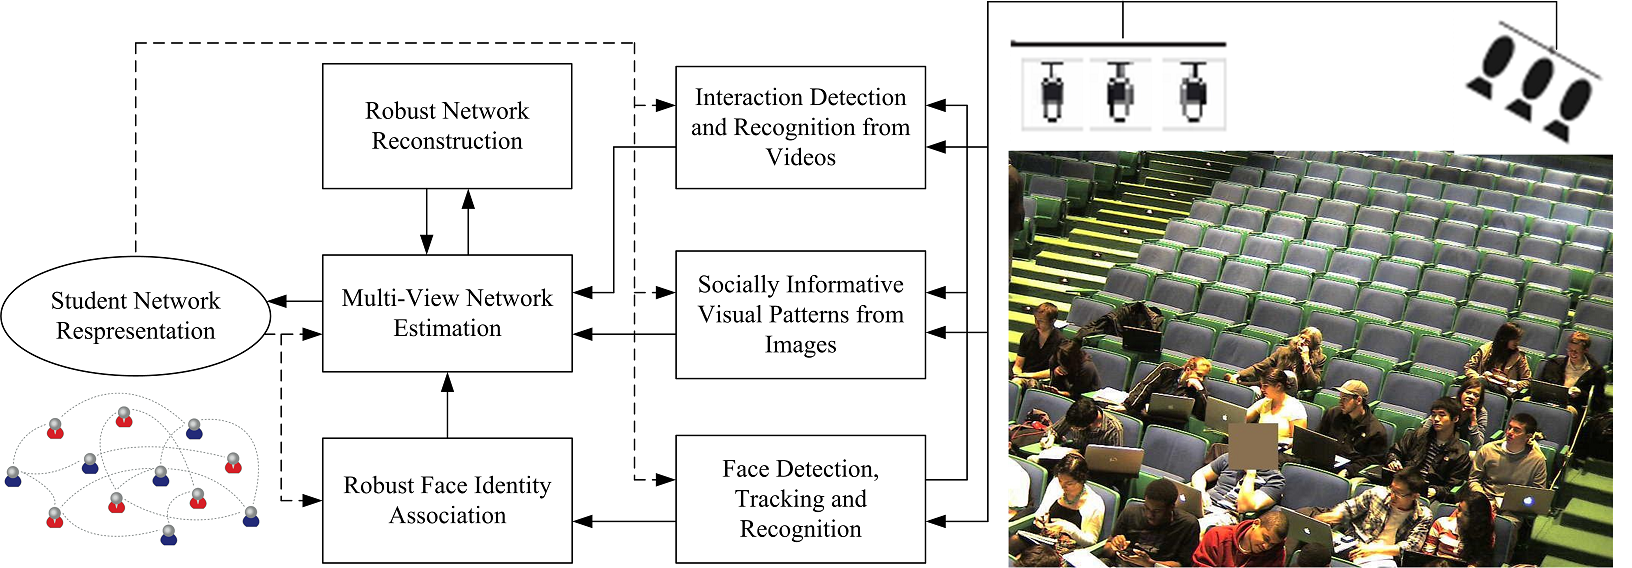
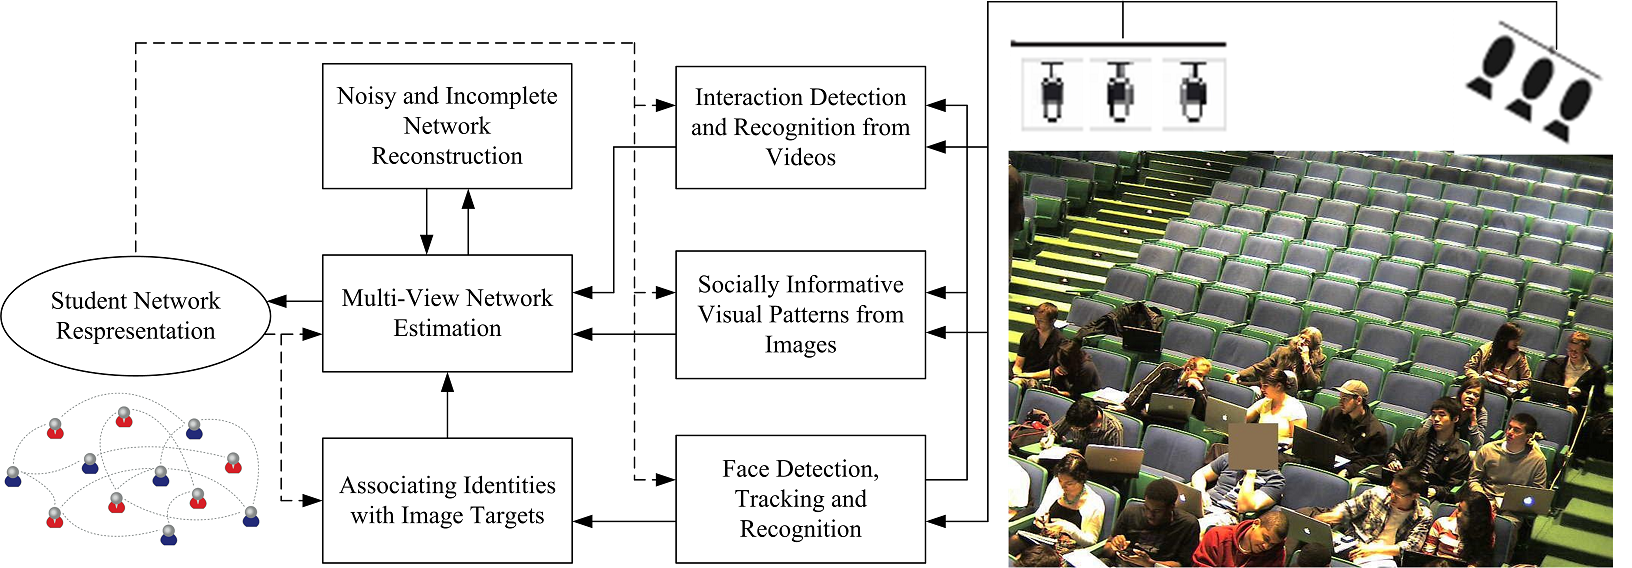
all in place

Changed region(s): [[0.1875, 0.1496, 0.3438, 0.2993], [0.1875, 0.838, 0.3438, 0.868], [0.2188, 0.8979, 0.3438, 0.9278]]

diff --git a/summary.tex b/summary.tex
@@ -3,14 +3,25 @@
 {\centering \vspace*{-0.3in} {\bf \Large{\mytitle}\\}}
 \vspace*{0.05in}
 
-We propose a framework to \emph{see} a social network - one that uses ubiquitous visual information and cutting-edge computer vision technologies as a new `sensor' by which we aim to reconstructing social relationships and attributes among individuals in various social communities. Contemporary research on social networks, undoubtedly, has been revealing us rich semantics by exploiting diverse `conventional social sensors' from textual/voice communications to online message sharing, but it has almost completely ignored visual media from abundant online photos to video volumes harvested by surveillance camera networks. Camera, as a new `community sensor', is much less intrusive than conventional social sensors, but exposes us the `real stories' about the community members from aside and remotely: Many of these stories may be too subtle for conventional approaches to grasp but visually sensible. Cameras, equipped with ever-increasing computer vision capabilities, produce vivid data in a quantity thousand times of what conventional sensors do, but these data has largely remained unexplored for social networks. It is now our mission to introduce vision to social networks in this proposed research agenda.
+We propose a framework to \emph{see} a social network - one that exploits images and videos and employs computer vision as a new `sensor' to recover social relationships and attributes among individuals in social communities. The mission of computer vision is to extract from visual data useful information about the world, and we now have functioning vision systems for many types of information. Yet, there are aspects of the world to which computer vision systems, relative to their human counterparts, remain quite blind. Prominent among these are the \emph{social interactions} and \emph{social relationships} between people. This information is critical for humans as they navigate the world and make decisions.
 
-In companion, we propose to understand images and videos by incorporating the contextual knowledge provided by the online social connections where the images and videos are embedded, as well as to distill from images and videos new social semantics previously only under the attention of conventional sociology. This effort builds upon, but will go much beyond the preliminary attempt on recognizing faces and identities under social contexts: Face recognition only tells about \emph{who} are in the visual scene, but we argue that benefits from the socialized nature of media nowadays are not limited to the task of `who'. Knowing more about the social connections among the visual documents helps us to better understand \emph{what} the individuals are doing therein and \emph{where} they geographically are, and even enables us to predict more precisely \emph{whether} a particular event is to happen next.
+Contemporary research on social networks, meanwhile, has been revealing us rich semantics by exploiting diverse `conventional social sensors' from textual/voice communications to online message sharing, but it has almost completely ignored visual media from abundant online photos to video volumes harvested by surveillance camera networks. Camera, as a new `community sensor', is much less intrusive than conventional social sensors, but exposes us the `real stories' about the community members from aside and remotely. Facial expressions, gestures, and body poses are critical signals for understanding the interactions and relationships between people, and the only way to get these are from images and videos. Also, it is not just important to understand the type of interaction, but also the context of the scene in which it occurs.
 
-In fact, both the visual sensing of a social network and the socially assisted understanding of visual materials can benefit from cross-pollination: Visually sensed social ties provide more specific contextual evidences about who are more likely to interact in a new visual scene and what activities they are more likely to be engaged in, while watching the visual co-occurrences and co-activities of two community members may reflect more accurate connections between them that are not easily available from other resources. By socially-aware visual analytics, we mean a comprehensive theoretical and practical infrastructure that we expect to develop during the award period, with the two complementing modules of the visual sensing of a network and the socially assisted visual understanding well integrated.
+We propose to develop foundations for computer vision systems that are `socially aware'. These systems will extract, from images and videos of human gatherings, useful information about the types of social interactions that occur within these gatherings. And by enumerating the different types of interactions that occur over time in large image and video collections, they will extract useful information about the underlying \emph{social network}---the set of social relationships that exist among the observed individuals, groups, and communities. 
 
-\boldstart{Intellectual Merit}. We propose a paradigm for socially-aware visual analytics, which systematically explores the interactions between visual information and social communities, yielding a new foundation for machine discovery of sociological knowledge and the potential for new perspectives and applications in visual understanding and computer vision. The paradigm includes new models and representations for networks arising from exploiting visual concepts in images and videos, and includes computational mechanisms to leverage socialized metadata for the new tasks in image and video analysis. The paradigm will, in particular, account for realistic situations in network sensing, such as multi-type overlapping communities and partial noisy observations, which has been largely overlooked by contemporary research, and all novel functionalities will build on mature elements in computer vision, such as face/human detection, recognition, and tracking, scene analysis, and event/activity interpretation, and will be deployed in the form of software and hardware.
+\boldstart{Intellectual Merit}. The paradigm of our proposed social visual analytics will systematically explores the interactions between visual information and social network, yielding a new foundation for machine discovery of sociological knowledge. The paradigm includes new models and representations for discovering socially-informative visual patterns, especially social interactions, and new computational mechanisms for recovering social networks by exploiting heterogeneous visual cues. The paradigm will in particular account for new challenges arising from both images and societies, and all novel functionalities will build on mature elements in computer vision, such as face/human detection, recognition, tracking, scene analysis, and event/activity interpretation, and will be deployed in the form of software and hardware.
 
-\boldstart{Broader Impacts}. The primary application domain of the proposed research is online and networked visual media about humans, while it will be also applicable to broader visual materials involving other agents, such as historical image archives, scientific image collections, biological recordings, and so on. Socialized behaviors are prevalent in social creatures, and our research will shed lights on new approaches to automatic browse, index, and parse them. New insights will be drawn toward diverse disciplines spanning sociology, pedagogy, and statistics, which are still in their infancy in introducing automated approaches exploiting visual information. Besides the tremendous potentials of industrial interests and product implementation that do not need elaboration, the proposed interdisciplinary research will also prompt revolutions in educational programs providing next-generation students with more comprehensive knowledge and broader mastery of skills.
+\boldstart{Broader Impacts}. The proposed program will seize on this opportunity for the creation of a framework for social visual analytics. We will engage in its creation students, the computer vision research community, and the broader public, toward a future in which machines can better understand and interact with environments. The proposed program will play an important role in education. The fundamental results will be incorporated into the curricula of an existing computer vision class. Undergraduates will be given opportunities for hands-on research experience including research internships that may be funded by future NSF REU supplements. Funding will be used to support two PhD, who will be an integral part of both research and educational endeavors. Finally, our results will be broadly disseminated by publications, lectures, and online sharing of source code so that they can be adopted and extended, and our outcomes will be shared through workshops held in conjunction with the major vision conferences. 
 
 \boldstart{Keywords:} Computer vision; social networks; machine learning
+
+
+%We propose a framework to \emph{see} a social network - one that exploits images and videos and employs computer vision as a new `sensor' by which we aim to recover social relationships and attributes among individuals in our social communities. Contemporary research on social networks has been revealing us rich semantics by exploiting diverse `conventional social sensors' from textual/voice communications to online message sharing, but it has almost completely ignored visual media from abundant online photos to video volumes harvested by surveillance camera networks. Camera, as a new `community sensor', is much less intrusive than conventional social sensors, but exposes us the `real stories' about the community members from aside and remotely: Many of these stories may be too subtle for conventional approaches to grasp but visually sensible. Cameras, equipped with ever-increasing computer vision capabilities, produce socially-informaive data in a quantity thousand times of what conventional sensors do, but these data has largely remained unexplored for social networks. It is now our mission to introduce vision to social networks in this proposed research agenda.
+%
+%In companion, we propose to understand images and videos by incorporating the contextual knowledge provided by the online social connections where the images and videos are embedded, as well as to distill from images and videos new social semantics previously only under the attention of conventional sociology. This effort builds upon, but will go much beyond the preliminary attempt on recognizing faces and identities under social contexts: Face recognition only tells about \emph{who} are in the visual scene, but we argue that benefits from the socialized nature of media nowadays are not limited to the task of `who'. Knowing more about the social connections among the visual documents helps us to better understand \emph{what} the individuals are doing therein and \emph{where} they geographically are, and even enables us to predict more precisely \emph{whether} a particular event is to happen next.
+%
+%In fact, both the visual sensing of a social network and the socially assisted understanding of visual materials can benefit from cross-pollination: Visually sensed social ties provide more specific contextual evidences about who are more likely to interact in a new visual scene and what activities they are more likely to be engaged in, while watching the visual co-occurrences and co-activities of two community members may reflect more accurate connections between them that are not easily available from other resources. By socially-aware visual analytics, we mean a comprehensive theoretical and practical infrastructure that we expect to develop during the award period, with the two complementing modules of the visual sensing of a network and the socially assisted visual understanding well integrated.
+%
+%\boldstart{Intellectual Merit}. We propose a paradigm for socially-aware visual analytics, which systematically explores the interactions between visual information and social communities, yielding a new foundation for machine discovery of sociological knowledge and the potential for new perspectives and applications in visual understanding and computer vision. The paradigm includes new models and representations for networks arising from exploiting visual concepts in images and videos, and includes computational mechanisms to leverage socialized metadata for the new tasks in image and video analysis. The paradigm will, in particular, account for realistic situations in network sensing, such as multi-type overlapping communities and partial noisy observations, which has been largely overlooked by contemporary research, and all novel functionalities will build on mature elements in computer vision, such as face/human detection, recognition, and tracking, scene analysis, and event/activity interpretation, and will be deployed in the form of software and hardware.
+%
+%\boldstart{Broader Impacts}. The primary application domain of the proposed research is online and networked visual media about humans, while it will be also applicable to broader visual materials involving other agents, such as historical image archives, scientific image collections, biological recordings, and so on. Socialized behaviors are prevalent in social creatures, and our research will shed lights on new approaches to automatic browse, index, and parse them. New insights will be drawn toward diverse disciplines spanning sociology, pedagogy, and statistics, which are still in their infancy in introducing automated approaches exploiting visual information. Besides the tremendous potentials of industrial interests and product implementation that do not need elaboration, the proposed interdisciplinary research will also prompt revolutions in educational programs providing next-generation students with more comprehensive knowledge and broader mastery of skills.

diff --git a/problem1.tex b/problem1.tex
@@ -10,24 +10,29 @@ Given a few or many images or videos capturing humans, their societies, and thei
 
 \begin{figure}[t!]
 \begin{center}
-\includegraphics[width=\columnwidth]{intro}
+\includegraphics[width=\columnwidth]{image_feature}
 \end{center}
 \vspace{-0.25in} \caption{\captionsize 
-(a-1) Original picture with detected faces; (a-2) relative positions of the detections; (a-3) Facial expressions; (a-4) Mutual Gazes; (a-5) Mutual poses; (a-6) scene recognition. (b-1) Independently recognizing the two faces: The right face is hard to distinguish between two possible people; (b-2) Recognizing faces using social relationship inferred from (a-1) through (a-6): The right face is now more likely to be associated with one person than the other. \label{fig:prob1}\afterfigspace}
+Socially-informative visual cues from still images: (a-1) Original picture with detected faces; (a-2) relative positions of the detections; (a-3) Facial expressions; (a-4) Mutual Gazes; (a-5) Mutual poses; (a-6) scene recognition. \label{fig:prob1}\afterfigspace}
 \end{figure}
 
-The example, as well as similar findings \cite{Gallagher,Wang2010,Murillo2012}, is inspiring, in that it convinces us that we have been equipped with sufficient computer vision capabilities for still images: These functionalities provide us a set of \emph{socially informative visual patterns}, and a smart selection and leveraging of them reveals new `words' that has never been seen by computer vision. High-level social contexts sensed from images through these socially informative visual patterns may conversely have immeasurable potentials in pushing traditionally hard problems forward, as has been argued and proved \cite{Stone2008,Stone2010}, for example in the task of face recognition from online imageries: Consider that in recognizing the two faces detected in Fig. \ref{fig:intro} (a-1) the right face is hard to distinguish between `Susan' and `Helen' (see (b-1)). However, the inferred `friends' relationship suggests that the individual should belong to the left person's list of friends (see (b-2)), which includes only `Helen' but not `Susan'.
+%(b-1) Independently recognizing the two faces: The right face is hard to distinguish between two possible people; (b-2) Recognizing faces using social relationship inferred from (a-1) through (a-6): The right face is now more likely to be associated with one person than the other.
 
+The example, as well as similar findings \cite{Gallagher,Wang2010, Murillo2012}, is inspiring, in that it convinces us that we have been equipped with sufficient computer vision capabilities for still images: These functionalities provide us a set of \emph{socially informative visual patterns}, and a smart selection and leveraging of them reveals new `words' that has never been seen by computer vision. High-level social contexts sensed from images through these socially informative visual patterns may conversely have immeasurable potentials in pushing traditionally hard problems forward, as has been argued and proved \cite{Stone2008,Stone2010}, for example in the task of face recognition from online imageries using social network contexts.
+
+%Consider that in recognizing the two faces detected in Fig. \ref{fig:prob1} (a-1) the right face is hard to distinguish between `Susan' and `Helen' (see (b-1)). However, the inferred `friends' relationship suggests that the individual should belong to the left person's list of friends (see (b-2)), which includes only `Helen' but not `Susan'.
+
+
+
+Obviously, socially informative visual patterns not only exist in still images, but are also largely available from videos, where human behaviors are observed and recorded. While we may straightforwardly compute and represent the co-occurrences of multiple dynamic expressions, gazes, and poses, it however may not be necessarily true that these dynamic patterns are socially informative. To illustrate this, let us look at  a short video of co-occurrence of two-person actions, such as 'kick', 'punch', etc. (\cite{UTdata}, Fig. \ref{fig:socialbehavior}(a)),  where dynamics of the two people's poses and articulations can be extracted but they have limited extra implications beyond what we can tell from images. Similarly, the socially non-informative behavior patterns also include those group-wise or collective activities of a crowd, within which there are no explicit interactions, such as 'group-walking', 'queueing', etc. (\cite{Choi:context,Choi:recogtrack}, Fig. \ref{fig:socialbehavior}(b)).  Our common sense, on the one hand, implies that socially informative video patterns are more of gestural and conversational interactions, attention-response, as well as turn-taking meetings  (Fig \ref{fig:socialbehavior}(c)(d)). On the other hand, sociology has provided well-defined socialization concepts, in terms of behavior categories, which has been proved in qualitative or quantitative sociological studies to be socially salient and meaningful, whose discovery however has not yet been automated by computer vision. Examples are in Fig. \ref{fig:socialbehavior} (e), which shows diagrams for such socially informative interaction categories, namely `f-formations', in three-way interactions that have been under the investigation of sociology and just received initial attention by computer vision \cite{Cristani:fformation}.
 
 \begin{figure}[t!]
 \begin{center}
 \includegraphics[width=\columnwidth]{socialbehavior}
 \end{center}
 \vspace{-0.25in} \caption{\captionsize 
-(a): Socially non-informative co-occurrence of articulations\cite{UTdata}; (b): Socially non-informative collective crowd activities\cite{Choi:context,Choi:recogtrack}; (c): Socially informative salient interactions; (d) Socially informative salient group interactions in the nature; (e) Socially meaningful three-way activity categories defined as `f-formations' by sociology\cite{Kendon1990}.\label{fig:socialbehavior}\afterfigspace}
+(a): Socially non-informative co-occurrence of articulations\cite{UTdata}; (b): Socially non-informative collective crowd activities\cite{Choi:context,Choi:recogtrack}; (c)(d): Socially informative salient interactions; (e) Socially meaningful three-way activity categories defined as `f-formations' by sociology\cite{Kendon1990}.\label{fig:socialbehavior}\afterfigspace}
 \end{figure}
-
-Obviously, socially informative visual patterns not only exist in still images, but are also largely available from videos, where human behaviors are observed and recorded. While we may straightforwardly compute and represent the co-occurrences of multiple dynamic expressions, gazes, and poses, it however may not be necessarily true that these dynamic patterns are socially informative. To illustrate this, let us look at  a short video of co-occurrence of two-person actions, such as 'kick', 'punch', etc. (\cite{UTdata}, Fig. \ref{fig:socialbehavior}(a)),  where dynamics of the two people's poses and articulations can be extracted but they have limited extra implications beyond what we can tell from images. Similarly, the socially non-informative behavior patterns also include those group-wise or collective activities of a crowd, within which there are no explicit interactions, such as 'group-walking', 'queueing', etc. (\cite{Choi:context,Choi:recogtrack}, Fig. \ref{fig:socialbehavior}(b)).  Our common sense, on the one hand, implies that socially informative video patterns are more of gestural and conversational interactions, attention-response, as well as turn-taking meetings  (Fig \ref{fig:socialbehavior}(c)). On the other hand, sociology has provided well-defined socialization concepts, in terms of behavior categories, which has been proved in qualitative or quantitative sociological studies to be socially salient and meaningful, whose discovery however has not yet been automated by computer vision. Examples are in Fig. \ref{fig:socialbehavior} (e), which shows diagrams for such socially informative interaction categories, namely `f-formations', in three-way interactions that have been under the investigation of sociology.  
 
 
 We seek to develop new approaches for detecting, localizing, and recognizing these socially informative visual patterns, i.e., interactions, from videos, in complementary to those companion efforts for still images. Through this effort, we foresee a richer set of heterogenous socially informative visual cues from videos in addition to those from images, so as to enable high-level reasoning as to be introduced in Section \ref{sec:vis2net}. We propose a paradigm as to be detailed in Section \ref{subsec:activity}, which is different from the existing work in three aspects. First, our approach is targeted to interactions that are defined and categories by dictionaries from sociology, but also generic to accommodate arbitrarily specified categories of interest and categories learned from data (Section \ref{sec:actlearn}), as well as interactions in social populations in the nature (Fig. \ref{fig:socialbehavior}(d)). Second, we builds upon realistic videos `in the wild', where the social interactions occur in unconstrained environment in the format of long-term surveillance videos of public areas, with irrelevant human beings co-existing with socially engaged actors as well as scene/background clutter. Our approach will be one that can effectively and efficiently localize and retrieve salient social interactions in space and time from these large volumes of cluttered image sequences. Third, realistic visual materials such as surveillance videos and web videos are frequently in low and varying frame-rate, in low resolution, blurry, as well as in adverse view-points. Our effort will be handling all these realistic conditions and providing robust and practical tools that process more than those simulated, high-quality, manually pre-processed data \cite{UTdata,Choi:context,Choi:recogtrack}.

diff --git a/problem5.tex b/problem5.tex
@@ -11,7 +11,7 @@ The prototype hardware and software infrastructure for analyzing socialized huma
 
 The ultimate goal of our proposed research is a comprehensive system that seamlessly integrates a bottom-up hierarchy of multiple modules for sensing social networks from visual information. While an universally applicable framework or prototype system to accomplish this purpose is a long-term objective that may require more than affordable for the moment, at a reasonably constrained visual scene and a fixed group of social agents of small to medium scale is completely feasible and is on our agenda. We plan, for example, at a later stage of the award period, to move toward such a computer vision system that can reveal the heterogeneous and possibly time-varying social networks of all students that enroll in a semester-long course offered at Harvard University. 
 
-As the initial attempt toward this goal to analyze socialized human behaviors in an indoor environment for social network estimation, we have built up a prototype hardware and software infrastructure at Harvard University. As shown in Fig. \ref{fig:prototype}, the hardware part of the prototype system mainly consists of a networked audio-visual recording system for large-scale recording of student interactions in a Harvard College lecture hall. The system records audio and video from approximately one hundred students during each lecture in conjunction with the audience responses through an online teaching-learning application. The video system uses six IP cameras that together provide resolution that is high enough to achieve face-based identity recognition of each student in the audience. The audio system is an innovative design consisting 48 omnidirectional boundary microphones mounted inconspicuously among the seats, and outputting sound from each microphone recording to a single user-friendly mp3 audio file.To automatically analyze the videos, we have developed a robust computational suite of computer vision tools. This software has consisted of several fundamental modules that detect, track, and recognize faces,  distill socially informative descriptions from raw images, and detect and recognize salient social interactions of interest, and has yielded the data used for our preliminary evaluation introduction in Section \ref{sec:activity}. The software suits, meanwhile, is expected to include other functionalities proposed in the previous sections by the end of the award period.
+As the initial attempt toward this goal to analyze socialized human behaviors in an indoor environment for social network estimation, we have built up a prototype hardware and software infrastructure at Harvard University. As shown in Fig. \ref{fig:prototype}, the hardware part of the prototype system mainly consists of a networked audio-visual recording system for large-scale recording of student interactions in a Harvard College lecture hall. The system records audio and video from approximately one hundred students during each lecture in conjunction with the audience responses through an online teaching-learning application. The video system uses six IP cameras that together provide resolution that is high enough to achieve face-based identity recognition of each student in the audience. The audio system is an innovative design consisting 48 omnidirectional boundary microphones mounted inconspicuously among the seats, and outputting sound from each microphone recording to a single user-friendly mp3 audio file.To automatically analyze the videos, we have developed a robust computational suite of computer vision tools. This software has consisted of several fundamental modules that detect, track, and recognize faces,  distill socially informative descriptions from raw images, and detect and recognize salient social interactions of interest, and has yielded the data that are fundamentally different from benchmark datasets \cite{UTdata,Choi:context,Choi:recogtrack} and are used for our preliminary evaluation introduction in Section \ref{sec:activity}. The software suits, meanwhile, is expected to include other functionalities proposed in the previous sections by the end of the award period.
 
 As illustrated by the diagram in Fig. \ref{fig:prototype}, and mentioned in the previous sections, we will employ the classroom observation system as our interface to harvest a volume of video sequences recording the indoor behaviors of the same class of students throughout the semester. The course that they enroll in uses interactive instruction by which they students are self-seated and engage in ad-hocly grouped discussions. We also maintain a teaching database where we have textual metadata regarding the students' profile data, status, learning performance, etc., as initial and partial social contexts among the students. This teaching database only only provides extra non-visual sources for estimating the student social network, but also can be used to provide the `ground-truth' networks to facilitate the research proposed in Section \ref{sec:vis2net}. Eventually, through the modules for face detection, tracking, recognition, and identify association (Section \ref{sec:assoc}), we link the members/nodes of the network to the human beings in each scene. Meanwhile, we detect socially meaningful interactions (Section \ref{subsec:activity}), co-occurrences, as well as compute other low-level visual cues for the purpose of estimating a `noisy' version of a multi-view network representation (Section \ref{sec:vis2net}), with the unobservable links between pairs in different views robustly reconstructed(Section \ref{sec:reconstruct}). The `hallucinated' social network from the videos in this way then provides the visually-sensed `honest' update for the network prior and is consolidated with the `textual' network as a comprehensive and more accurate characterization of this community. The feedback channel may infuse the updated social contexts and concepts to the face recognizer and the interaction detector. We expect such a close-loop socially-aware visual analytical framework to learn and self-build themselves in an evolving and unsupervised manner and to enable our new look at the images and videos in this socially networked era.
 

diff --git a/relatedwork.tex b/relatedwork.tex
@@ -9,7 +9,7 @@ The recognized faces exhibit more information than those regarding identities an
 
 \boldstart{Human Behavior Recognition}. In addition to facial behaviors, social clues are abundantly conveyed by body language of humans. Human behaviors are not only in the form of moderate body motion - gesture \cite{Mitra:gesture}, but also in the form of articulations - full-body action \cite{Ryoo:action,Poppe}. The description of these human behaviors builds upon low-level spatio-temporal descriptors \cite{Dalal:HOG,Dollar:STIP,Laptev:STIP,Brox:flow}, and is hierarchically organized into high-level grammar structure \cite{Niebles2007,Niebles2006} for recognition.  Related tasks also include detecting motion from clutter \cite{Li2010}, comparing two behaviors \cite{LiPAMI 2012}, as well as adapting behavior representations between different modalities \cite{LiZickler2012,Li2011}, which are all among co-PI Li's expertises.
 
-Studies on social behavior involving more than one individual had not begun until efforts were made in videos of small-scale indoor meeting \cite{GaticaPerez,McCowan:meeting}, where the functionalities of tracking \cite{Smith:track} and pose estimation \cite{Ba:meeting} are integrated in dynamic hidden Markov models (HMM) \cite{Zhang:meeting}. More efforts emerged in the past few years, spanning pairwise interactive activities \cite{UTdata}, as well as group-wise, or collective activities \cite{Choi:context,Choi:recogtrack,Amer:group,Lan:Group}, as well as co-PI Li's recent studies on interactions in sport games \cite{LiIJCV2012}.  Despite of an increasing interest in the group-wise activities, a gap between the existing work and our proposed research is obvious: Instead of treating the group of humans as a unified and `intact' target, or sample for categorization, we aim to fill in the blank area of overlaying the group of individuals with the social network among them, as to be detailed in Sect.~\ref{sec:proposed-research}.
+Studies on social behavior involving more than one individual had not begun until efforts were made in videos of small-scale indoor meeting \cite{GaticaPerez,McCowan:meeting}, where the functionalities of tracking \cite{Smith:track} and pose estimation \cite{Ba:meeting} are integrated in dynamic hidden Markov models (HMM) \cite{Zhang:meeting}. More efforts emerged in the past few years, spanning pairwise co-occuring activities \cite{UTdata}, group-wise, or collective activities \cite{Choi:context,Choi:recogtrack,Amer:group,Lan:Group}, interactions readily defined by sociology such as `f-formations' \cite{Cristani:fformation}, as well as co-PI Li's recent studies on interactions in sport games \cite{LiIJCV2012}.  Despite of an increasing interest in the group-wise activities, a gap between the existing work and our proposed research is obvious: Instead of treating the group of humans as a unified and `intact' target, or sample for categorization, we aim to fill in the blank area of overlaying the group of individuals with the social network among them, as to be detailed in Sect.~\ref{sec:proposed-research}.
 
 
 \boldstart{Qualitative and Quantitative Sociology}.  Despite of the lack of visual sensor, social network has been among the most persistent research interests for years. Sociology, where the modern social network research is rooted, can be traced back to decades ago when investigations are performed on human beings' elementary social properties \cite{Darwin,Thomkins,Goffman,Kendon1990,Ekman,Hoyle,Tannen}. Interactions and relations among socialized individuals have been extensively under the study of sociology in either a qualitative or a quantitative manner \cite{Goodwin2000,Goldin,Goodwin2007,Kendon2010}, while the arrival of the era of contemporary communication and internet brings the human society into a real technically interconnected community, so that analytical and statistical approaches can be widely applied to new socializing modalities, such as emails \cite{Eckmann} and mobile phones calls \cite{Onnela,Eagle}. Rich and heterogeneously structured communities can be abstracted from various domains, including production and consumption \cite{Watts}, transportation and travel \cite{Gonzalez},  as well as politics \cite{Iacus}. All together has shaped the interdisciplinary study on the networked life of human beings, namely `computational social science', into an infancy \cite{Lazer2009}. As has been discussed, the perspectives and problems in the computational social science, will infuse the computer vision with nutritional ingredients, and eventually benefit from the outcome of such research.

diff --git a/introduction.tex b/introduction.tex
@@ -13,7 +13,8 @@ The past decade has produced stunning advances in computer vision. Real-time fac
 
 If the purpose of computer vision is to extract from image data useful information about the world, it is clear that we now have useful, functioning vision systems for certain types of information. Yet, there are aspects of the world to which computer vision systems, relative to their human counterparts, remain quite blind. Prominent among these are the \emph{social interactions} and \emph{social relationships} between people. This is information is critical for humans as they navigate the world, making decisions about which table to join at a banquet; which schoolmates to invite to a dinner party; which colleagues to approach to enact change; or whether or not to intervene in a questionable interaction between strangers.
 
-We propose to develop foundations for computer vision systems that are socially aware. These systems will extract, from images and videos of human gatherings, useful information about the types of social interactions that occur within these gatherings. And by enumerating the different types of interactions that occur over time in large image and video collections, they will extract useful information about the underlying \emph{social network}---the set of social relationships that exist among the observed individuals, groups, and communities.
+
+We propose to develop foundations for computer vision systems that are socially aware. These systems will extract, from images and videos of human gatherings, useful information about the types of social interactions that occur within these gatherings. And by enumerating the different types of interactions that occur over time in large image and video collections, they will extract useful information about the underlying \emph{social network}---the set of social relationships that exist among the observed individuals, groups, and communities. In other words, we seek to use computer vision systems as a new `sensor' from which we recover the underlying social network (Fig. \ref{fig:intro}).
 
 Why is vision an important source of social network information? Social network information can come from various sources, but vision is an important one. Facial expressions, gestures, and body poses are critical signals for understanding the interactions and relationships between people, and the only way to get these are from images and videos. Also, it is not just important to understand the type of interaction, but also the context of the scene in which it occurs.
 
@@ -24,6 +25,14 @@ Our project has three main parts:
 2. Inferring social network information from detected interactions. We will design mechanisms by which we distill ties or affinities between social members from multiple heterogeneous visual cues, and in particular accounting for the multi-view effect in a practical social network. To achieve robustness, our research will especially focus on noise-resilient methods for mapping image targets to the identities of the members, as well as novel algorithms to the case of incomplete and noisy outputs from the social network estimator due to various types of imperfection incurred from missed detections; mis-classified interactions, and a large fraction of missing observations.
 
 3. Data collections and challenge problems. We will collect datasets to evaluate our methods and design challenge problems to engage our colleagues in this research agenda. To do this, we will address the challenges of enabling reproducible research while preserving privacy.
+
+\begin{figure}[t!]
+\begin{center}
+\includegraphics[width=\columnwidth]{intro}
+\end{center}
+\vspace{-0.25in} \caption{\captionsize 
+Social visual analytics: A computer vision approach to `sense' a social network. \label{fig:intro}\afterfigspace}
+\end{figure}
 
 This lays the foundation for socially-aware computer vision systems. These systems will transform security, anti-terrorism, autonomous visual analytics, augmented reality, human computer interaction, human resource planning, operations research, game theory and e-commerce, and identify recognition. 
 

diff --git a/broaderimpact.tex b/broaderimpact.tex
@@ -7,20 +7,6 @@ A computational framework that enables social understanding from visual data is 
 
 The proposed  program will seize on this opportunity by concentrating our team's resources on the creation of a  framework for social visual analytics.  We will engage in its creation undergraduate and graduate students, the computer vision research community, and the broader public. These are critical steps toward a future in which machines can match or exceed the human ability to understand and interact with their environments; and they will usher in radical changes to security, personal robotics, augmented reality, human-computer interfaces, security, and video summarization, to name a few.
 
-The proposed research program will play an important role in education at
-both the undergraduate and graduate levels. The fundamental results of this
-research will be incorporated into the curricula of an existing computer vision class, enhancing senior
-undergraduate and graduate student education at the participating
-institution. Undergraduates at the junior and senior levels will be given
-opportunities for hands-on research experience, including summer research
-internships that may be funded by future NSF REU supplements. Finally, funding
-will be used to support two PhD, and these
-students will be an integral part of both research and educational endeavors in
-this project. They will participate in all stages, including the design of
-equipment and algorithms, and presentation of results at major conferences.
+The proposed research program will play an important role in education at both the undergraduate and graduate levels. The fundamental results of this research will be incorporated into the curricula of an existing computer vision class, enhancing senior undergraduate and graduate student education at the participating institution. Undergraduates at the junior and senior levels will be given opportunities for hands-on research experience, including summer research internships that may be funded by future NSF REU supplements. Finally, funding will be used to support two PhD, and these students will be an integral part of both research and educational endeavors in this project. They will participate in all stages, including the design of equipment and algorithms, and presentation of results at major conferences.
 
-Our results will be broadly disseminated in three ways. First, they
-will be distributed by publications in refereed conferences and
-journals and by lectures at other institutions.  Second, datasets and source
-code will be posted online so that they can be
-easily adopted and extended (see attached Data Management Plan). Third, they will be shared through  challenge problem workshops on social visual analytics, held in conjunction with the major  vision conferences, with the small amount of required funding provided by sponsorship agreements. The research team has an established track record in this type of outreach, with PI Zickler having organized tutorials in  vision and  graphics (ICCV 2007, SIGGRAPH 2008) as well as a workshops on computer vision (CRICV 2009, CRICV 2010, CPCV 2011)
+Our results will be broadly disseminated in three ways. First, they will be distributed by publications in refereed conferences and journals and by lectures at other institutions.  Second, datasets and source code will be posted online so that they can be easily adopted and extended (see attached Data Management Plan). Third, they will be shared through  challenge problem workshops on social visual analytics, held in conjunction with the major  vision conferences, with the small amount of required funding provided by sponsorship agreements. The research team has an established track record in this type of outreach, with PI Zickler having organized tutorials in  vision and  graphics (ICCV 2007, SIGGRAPH 2008) as well as a workshops on computer vision (CRICV 2009, CRICV 2010, CPCV 2011)

diff --git a/problem4.tex b/problem4.tex
@@ -1,4 +1,4 @@
-\subsubsection{Robust Reconstruction of Incomplete Networks}
+\subsubsection{Noisy and incomplete network reconstruction}
 \label{sec:reconstruct}
 
 A second realistic condition, in particular relevant for our visual sensing paradigm, is that the social networks are usually noisy and partially observed, meaning that not all links/affinities from all views are accurate and `visible'. Some links, i.e., edges in the graph cannot be evaluated with a weight, for example, because of the incapability of the vision function on a particular image, resulting in incomplete graphs.
@@ -16,7 +16,7 @@ The answer is YES. We have proved the following theorem, which implies that arbi
 
 The above theorem provides theoretical guarantee that each member (node) can be uniquely identified with a point in a Euclidean space, because now the Euclidean embedded nodes $\vx_i$'s and the generic social network representation $G$ are naturally related as
 \begin{equation}\label{eq:embed}
-d^{(v)}(\vx_i, \vx_j, \theta^{(v)})=(\frac{1}{A^{(v)}(i,j)^2}+c^{(v)})^{\frac{1}{2}}+\epsilon_{ijv}, \forall Q^{(v)}(i,j)=1,
+d^{(v)}(\vx_i, \vx_j, \theta^{(v)})=(\frac{1}{A^{(v)}(i,j)^2}+c^{(v)})^{\frac{1}{2}}+\epsilon^{(v)}_{ij}, \forall Q^{(v)}(i,j)=1,
 \end{equation}
 where $d^{(v)}(\cdot, \cdot, \theta^{(v)})$ is a properly defined distance in the Euclidean space specific to the $v$th view with parameter $\theta^{(v)}$, and $\epsilon$ is a residual. Meanwhile, the community structure, as the social network prior, may consequently  be modeled in the Euclidean space as well, for example, via
 \begin{equation}\label{eq:kmeans}

diff --git a/problem3.tex b/problem3.tex
@@ -34,7 +34,7 @@ We argue that cross-view compatibility and within-view clustering are essential 
 
 %%%%%%%%%%%%%%%%%%%%%%%%%%%%%%%%%%%%%%%%%%%%%%%%%%%%%%%%%
 
-\subsubsection{Robust Face Identity Association}
+\subsubsection{Associating identities with image targets}
 \label{sec:assoc}
 
 To obtain the low-level visual descriptions $\vy^s$ between individual $i$ and individual $j$, we must first identify the two individuals from the detections in images or tracks in videos. While the state-of-art face recognizer has achieved compellingly outstanding performance even for the faces `in the wild', there always remain ambiguities and errors. Suppose that from an image we have detected $L$ faces or from a video we have tracked $L$ faces, and we must assign each of these $L$ targets to one of the possible $K$ identities of interest for the social network estimation approach to work. We propose to explore robust algorithms that may properly handle the non-robustness of a face recognizer and provide identity assignments that are less sensitive to the erroneous output from a face recognizer.
